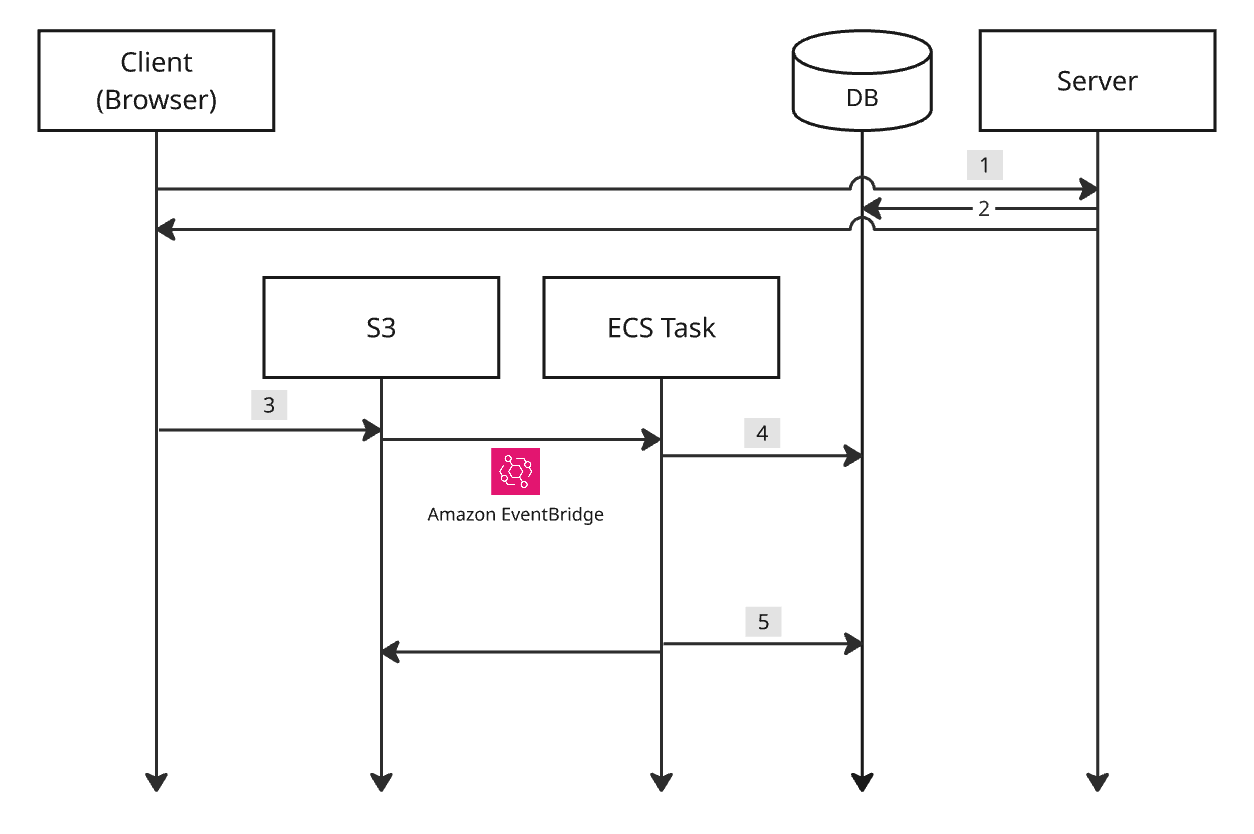
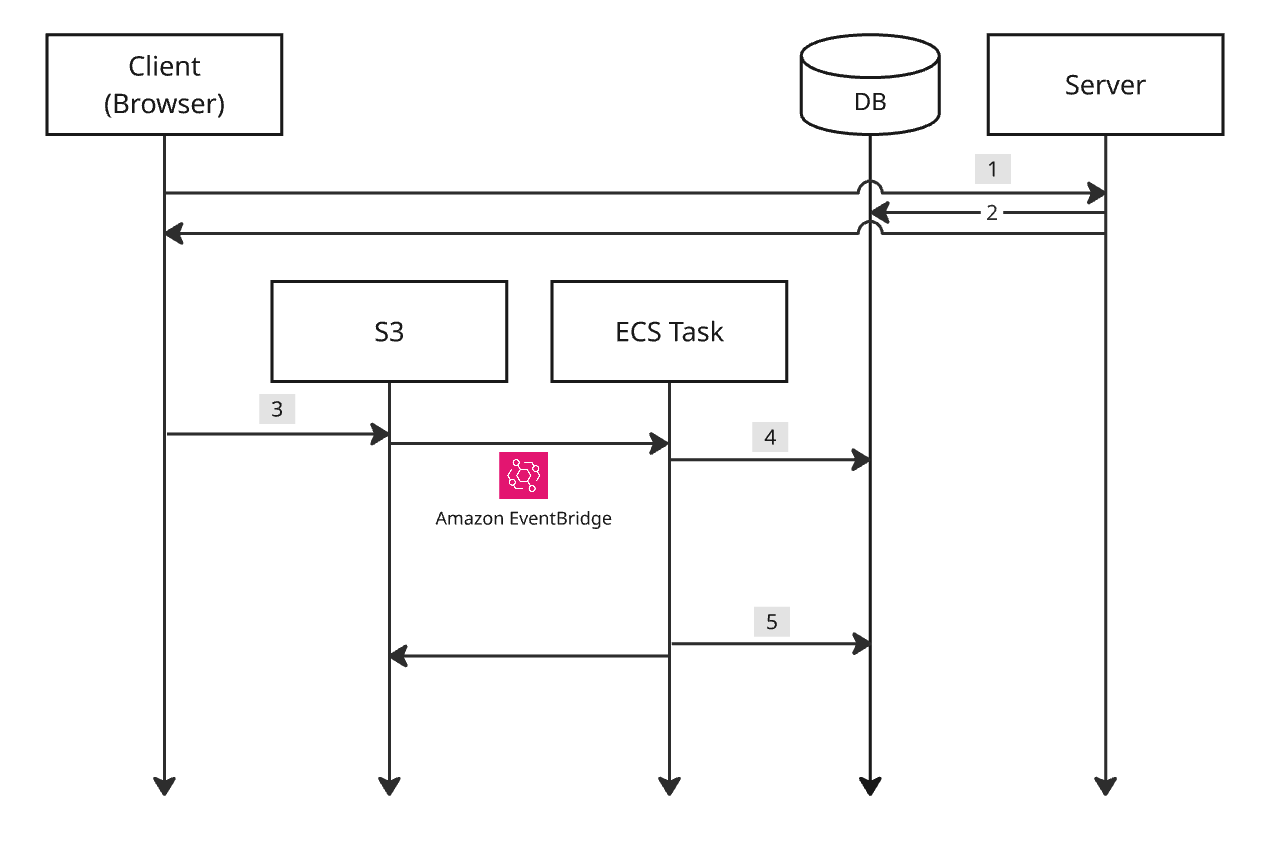
Fix 어색한 문장 및 이미지 변경

diff --git a/_posts/2025/2025-10-08-system-design-for-handling-big-size-file.md b/_posts/2025/2025-10-08-system-design-for-handling-big-size-file.md
@@ -76,10 +76,10 @@ last_modified_at: 2025-10-08T23:55:00
 
 여러가지 장점들이 있지만, 고려해야 하는 부분도 많다. 어떤 부분들이 있을까? 우선 파일 변환 프로세스에 대한 상태 관리 및 작업을 추적할 필요가 있다. 작업 상태를 추적하기 위해 데이터베이스를 사용하면 된다.
 
-1. 클라이언트가 최초 사전 서명된 URL을 요청할 때 서버는 `job_id`를 생성한다. 클라이언트가 만들어 서버에게 전달해도 무관하다. job_id는 항상 다른 값을 갖도록 `UUID`를 사용한다. 사전 서명된 URL을 만들 때 S3 오브젝트 경로에 job_id를 포함시킨다. 예를 들면, 원본 파일은 `{job_id}/uploads` 경로, 처리된 파일은 `{job_id}/processed` 경로를 사용한다.
+1. 클라이언트가 업로드용 사전 서명된 URL을 요청할 때 서버는 `job_id`를 생성한다. 클라이언트가 만들어 서버에게 전달해도 무관하다. 추후 클라이언트가 폴링할 때 `job_id`가 필요하므로 클라이언트는 이를 알고 있어야 한다.
 2. 서버는 job_id와 함께 작업 상태를 `PENDING`으로 데이터베이스에 저장한다.
-3. 클라이언트는 업로드용 사전 서명된 URL을 통해 S3의 `{job_id}/uploads` 경로에 파일을 업로드한다.
-4. 파일 업로드가 완료되면 ECS 태스크가 실행된다. S3 객체의 메타 데이터나 경로를 통해 `job_id`를 전달받는다. 작업 상태를 시작할 때 `PROCESSING`으로 업데이트한다.
+3. 클라이언트는 업로드용 사전 서명된 URL을 통해 S3에 파일을 업로드한다.
+4. 파일 업로드가 완료되면 ECS 태스크가 실행된다. S3 객체의 메타 데이터(혹은 경로)를 통해 `job_id`를 받는다. 작업 상태를 `PROCESSING`으로 업데이트한다.
 5. ECS 태스크는 변환 작업 완료 시 `COMPLETED`, 실패 시 `FAILED` 등으로 업데이트한다.
 
 <div align="center">
@@ -88,13 +88,15 @@ last_modified_at: 2025-10-08T23:55:00
 
 <br/>
 
+사전 서명된 URL을 만들 때 S3 오브젝트 경로에 job_id를 포함시킨다. 예를 들면, 원본 파일은 `{job_id}/uploads` 경로, 처리된 파일은 `{job_id}/processed` 경로로 설계한다. job_id는 항상 다른 값을 갖도록 UUID 같은 데이터를 사용한다. 원본 파일, 변환된 파일을 변환 프로세스 별로 한 경로에 모은다. 추후 스케줄러를 통해 `{job_id}/*` 경로 하위 파일들을 삭제한다. 경로에 job_id를 포함시키면 ECS 태스크에서 해당 변환 프로세스를 특정할 수 있지만, 메타 데이터를 사용하는 것도 좋다.
+
 시스템은 동일한 요청에 항상 같은 결과를 보장하는 멱등성(idempotency)이 필요하다. S3 이벤트가 중복으로 발생하여 ECS 태스크가 여러 번 실행되는 케이스에 대한 처리가 필요하다. ECS 태스크는 시작할 때 데이터베이스에 저장된 `job_id` 상태를 확인한다. 상태가 PENDING이 아니면 작업을 중복 실행하지 않고 바로 종료한다.
 
 다음 파일을 업로드 한 이후에 임시로 저장한 원본 파일이나 변환 완료된 파일은 다운로드 이후에 삭제해야 한다. 주기적으로 삭제해도 문제가 없지만, 이 팀의 경우 업로드하는 파일이 매우 중요한 기밀이기 때문에 S3 스토리지에 파일이 올라가는 것을 큰 보안 리스크로 간주했다. 파일을 최대한 빨리 삭제하기 위한 정책이나 프로세스가 필요했다. S3는 생명 주기(lifecycle) 정책을 사용하면 일정 기간이 지난 파일을 삭제할 수 있지만, 일(day) 단위부터 가능하므로 별도 삭제 스케줄러가 필요해 보였다. `job_id`를 사용하면 스케줄러가 빠른 주기로 작업 상태를 확인 후 파일을 삭제하는 것이 가능하다.
 
 위 구조에서 가장 큰 약점은 클라이언트가 계속 폴링하는 것이다. 불필요한 트래픽을 유발하고, 클라이언트 코드도 폴링 처리를 위한 로직으로 복잡해진다. 장시간 파일 업로드와 변환 프로세스를 기다려야 하므로 사용성이 좋지 않다. 웹소켓이나 서버 전송 이벤트(SSE, sever-sent event)를 통해 비동기적으로 처리하는 편이 효율적이고 사용성이 좋을 것이다. 다만, 기존에 작성된 프론트엔드 코드를 봤을 떄 즉시 비동기 처리로 넘어가기에 어려움이 있어 보였다. 이 부분은 일단 폴링으로 처리하되 파일 변환 프로세스의 큰 흐름이 잡히면 이후에 비동기적인 사용자 플로우를 PM, 디자이너와 함께 재정의 할 필요가 있었다.
 
-효율적인 폴링을 위한 우선 파일 변환에 걸리는 시간을 고려한 인터벌(interval) 시간이나 최대 폴링 시도 횟수를 지정한다. 클라이언트가 S3 스토리지를 직접 폴링하는 것은 보안적으로 좋지 않고, 모니터링이 어렵다. 서버 폴링을 거쳐 파일 다운로드를 수행하는 설계가 필요하다.
+효율적인 폴링을 위한 우선 파일 변환에 걸리는 시간을 고려한 인터벌(interval) 시간이나 최대 폴링 시도 횟수를 지정한다. 클라이언트가 S3 스토리지를 직접 폴링하는 것은 보안적으로 좋지 않고, 모니터링이 어렵다. 서버 폴링을 거쳐 파일 다운로드를 수행하는 설계가 필요하다. 클라이언트는 폴링을 수행할 때 `job_id`를 사용한다.
 
 - 서버에 파일 변환 프로세스의 작업 상태를 반환하는 `[GET] /api/jobs/{job_id}/status` 같은 API 엔드포인트를 만든다. 이를 통해 클라이언트는 단순히 파일 유무가 아닌 진행 중인지 실패(사유 포함)인지 등의 구체적인 이유를 알 수 있다. 클라이언트는 작업 상태에 따라 폴링을 중간에 멈출 수 있다. 
 - 서버로부터 작업 상태를 확인 후 다운로드용 사전 서명된 URL을 받으면 URL의 만료 시간을 최소한으로 지정할 수 있으므로 보안적으로 안전하다. 클라이언트가 직접 S3 스토리지를 폴링하기 위해선 언제 끝날지 모르는 변환 작업을 위해 긴 유효 시간을 갖는 사전 서명된 URL이 필요하다. 긴 유효 시간을 갖는 사전 서명된 URL은 노출되면 통제할 수 없으므로 보안적으로 매우 취약하다.
